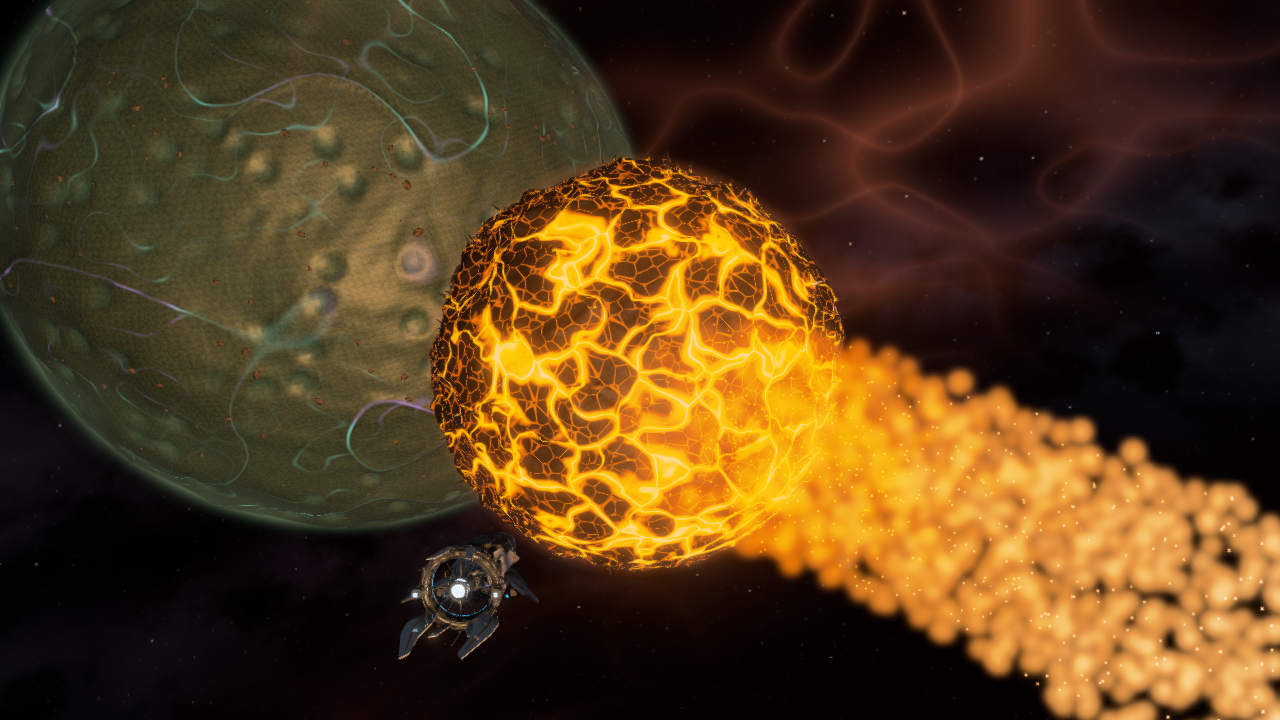
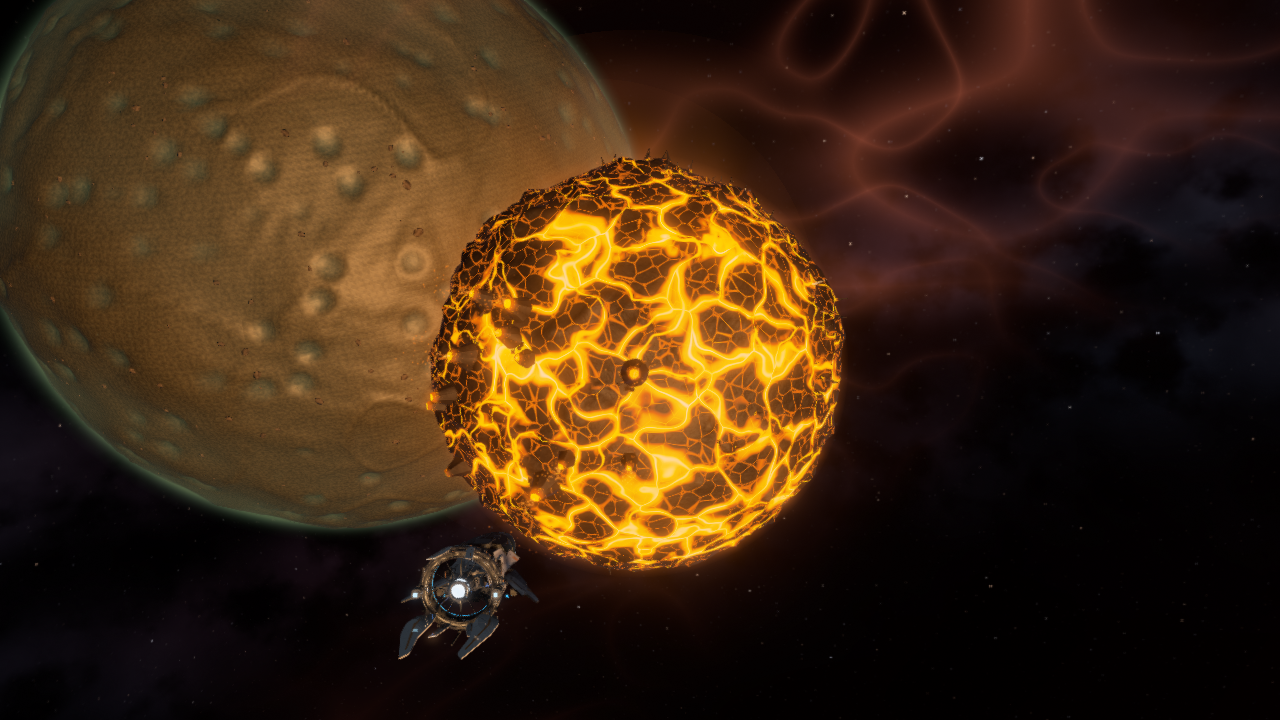
Documentar los lugares de cada planeta y la cola de Pira, y regenerar las capturas

diff --git a/README.md b/README.md
@@ -17,7 +17,21 @@ todo el cielo. Otra J la hace renacer.
 | ![Agonía: la estrella late y Pira se le deshace encima](media/22_agonia.png) | ![Estertor: la estrella suelta su capa de gas](media/25_estertor.png) |
 | ![Vigía y su ojo-tormenta](media/06_vigia.png) | ![Pira: corteza en placas y lava](media/02_pira.png) |
 | ![Agujas góticas de Réquiem](media/10_agujas.png) | ![Cementerio: naves en los anillos y la baliza](media/08_cementerio.png) |
-| ![Superficie de Jardín](media/23_jardin_biopunk.png) | ![Silencio: solo queda la bioluminiscencia](media/17_colapso.png) |
+| ![Superficie de Jardín](media/23_jardin_biopunk.png) | ![Pira y su cola de polvo](media/14_cola.png) |
+
+## Lugares para visitar
+
+Cada planeta tiene un lugar en su superficie que **reacciona a la nave**,
+con luces que alumbran lo de alrededor y algo que flota a su lado. La tecla
+**N** viaja al siguiente; cerca de cada planeta, el HUD marca su lugar.
+
+| | |
+| --- | --- |
+| ![Los géiseres de Pira](media/27_geiseres.png) | **Los géiseres** (Pira): bocas de lava que hacen erupción de vez en cuando y despiertan al pasar la nave; alumbran el suelo y suben brasas a su alrededor. |
+| ![La catedral de Réquiem](media/28_catedral.png) | **La catedral** (Réquiem): un círculo de agujas alrededor de una aguja mayor. Se encienden empezando por lo que la nave tiene más cerca y alumbran el hielo de azul. Cae nieve. |
+| ![La baliza de Cementerio](media/26_baliza.png) | **La baliza** (Cementerio): naves caídas alrededor de la torre. A su paso les vuelven las luces y echan chispas; la baliza titila más rápido y su onda sube. |
+| ![El ojo de Vigía de cerca](media/29_ojo_cerca.png) | **El ojo** (Vigía): sigue a la nave y, cuando se acerca, cierra la pupila, enciende el iris y los relámpagos se juntan debajo de ella. Jirones de nube pasan rozando. |
+| ![El claro de Jardín](media/11_hongos.png) | **El claro** (Jardín): colonias de hongos y corales que alumbran el suelo, con esporas flotando. |
 
 ## Video
 
@@ -29,8 +43,8 @@ simulación acelerada x3, así que no es una medición de FPS en tiempo real.
 
 Recorrido sugerido para grabarlo (F9 oculta el HUD):
 
-1. Desde el inicio, junto a Pira, alejarse con Shift para ver el chorro de
-   brasas cayendo a la estrella.
+1. Desde el inicio, junto a Pira, alejarse con Shift para ver la cola de
+   polvo que la estrella le arranca.
 2. Volar a Jardín y bajar hasta la superficie: el modo local se activa solo.
 3. Con O (crucero), dar la vuelta al planeta sobre el bosque de hongos.
 4. Subir y alejarse con Shift.
@@ -49,7 +63,7 @@ Opciones:
 
 ```sh
 cargo run --release -- --res 1920x1080        # resolución del render (por defecto 1280x720)
-cargo run --release -- --captura capturas     # las 27 vistas fijas como PNG, sin abrir ventana
+cargo run --release -- --captura capturas     # las 30 vistas fijas como PNG, sin abrir ventana
 cargo run --release -- --bench 30             # mide cada vista fija y da medianas por etapa
 cargo run --release -- --wire --lod           # empieza con wireframe y colores de LOD
 cargo test --release                          # pruebas de vuelo, raster, sombras y gas volumétrico
@@ -67,6 +81,7 @@ cargo test --release                          # pruebas de vuelo, raster, sombra
 | Turbo | Shift |
 | **Freno de emergencia** (prioridad sobre turbo y crucero) | **X sostenida** |
 | **Recuperar posicion** junto a Pira, conservando el ciclo | **Inicio / Home** |
+| **Viajar al siguiente lugar** (géiseres, catedral, baliza, claro) | **N** |
 | Acercar / alejar la cámara | Rueda |
 | Cámara de persecución / cabina | C |
 | Asistente de vuelo / gravedad | Z / G |
@@ -130,12 +145,12 @@ Las vistas fijas se generan con `--captura` (nombres entre paréntesis).
 
 | Característica del menú | Cómo está hecho | Dónde verlo |
 | --- | --- | --- |
-| **5 planetas** que orbitan, rotan y se ven de cerca (50) | Pira (corteza negra en placas con lava que late, acoplada por marea; la estrella se la come y le arranca un penacho de roca vaporizada), Jardín (mundo vivo que respira, con arterias y capilares que laten), Vigía (gigante gaseoso morado con un ojo-tormenta que gira, sigue a la nave y dilata la pupila con el latido), Réquiem (mundo helado con agujas góticas y grietas de luz fría) y Cementerio (anillos llenos de naves del éxodo y una baliza que sigue transmitiendo). Órbitas y giros son funciones del tiempo. | (02) a (08); volar a cualquiera |
-| **8 tipos de modelos** propios en la superficie (20) | Aguja gótica y aguja en ruinas (Réquiem), hongo y coral (Jardín), espinas de obsidiana (Pira), nave náufraga y baliza de celosía (Cementerio) y rocas, armados con código en `scene/props.rs`, cada uno en tres niveles de detalle. | (10) a (13), (26) |
+| **5 planetas** que orbitan, rotan y se ven de cerca (50) | Pira (corteza negra en placas con lava que late, acoplada por marea; la estrella la está desintegrando y le arranca una cola de polvo, como a K2-22b), Jardín (mundo vivo que respira, con una red de luz bajo la piel), Vigía (gigante gaseoso morado con un ojo-tormenta que gira, sigue a la nave y dilata la pupila con el latido), Réquiem (mundo helado con agujas góticas y grietas de luz fría) y Cementerio (anillos llenos de naves del éxodo y una baliza que sigue transmitiendo). Órbitas y giros son funciones del tiempo. | (02) a (08); volar a cualquiera |
+| **9 tipos de modelos** propios en la superficie (20) | Aguja gótica y aguja en ruinas (Réquiem), hongo y coral (Jardín), espinas de obsidiana y géiser (Pira), nave náufraga y baliza de celosía (Cementerio) y rocas, armados con código en `scene/props.rs`, cada uno en tres niveles de detalle. | (10) a (13), (26) |
 | **Distribución procedural** reproducible con ruido (10) | Una grilla por cara del cubo-esfera; cada celda propone un punto y lo acepta con una probabilidad de ruido fBm (grupos y claros) por las reglas del terreno (pendiente, hielo, lava, valles). Misma semilla, mismas ubicaciones. | F6 o T → semilla |
 | **Posición y orientación** sobre la superficie curva que gira (5) | Cada objeto vive en el espacio de su planeta, parado sobre la normal radial y hundido en el suelo; gira con el planeta y sube y baja con la respiración de Jardín. | Cualquier superficie |
-| **Shaders propios** distintos (24) | Estrella (granulación de plasma, onda del latido, llamaradas), Pira (placas de Voronoi y lava de cuerpo negro), Jardín (arterias y capilares con antialiasing), Vigía (paleta propia, vórtice de Rodrigues, iris y relámpagos; del mapa del Hubble solo se toma el detalle de las nubes), Réquiem (hielo con grietas de luz fría), Cementerio, anillos de naves, agujas, baliza, nebulosa del estertor y Gargantúa. | Todas las vistas |
-| **Shader animado** (8) | La estrella late y cada latido cruza su superficie; la lava y las arterias laten con retraso; Jardín respira; el vórtice de Vigía gira y su pupila se dilata; la luz sube por las agujas; los anillos orbitan con luces que parpadean; la nebulosa se expande; el gas del disco fluye. | (02), (04), (06), (10), (18), (25) |
+| **Shaders propios** distintos (24) | Estrella (granulación de plasma, onda del latido, llamaradas), Pira (placas de Voronoi y lava de cuerpo negro), Jardín (tejido con luz interna y poros), Vigía (paleta propia, vórtice de Rodrigues, iris y relámpagos; del mapa del Hubble solo se toma el detalle de las nubes), Réquiem (hielo con grietas de luz fría), Cementerio, anillos de naves, agujas, baliza, nebulosa del estertor y Gargantúa. | Todas las vistas |
+| **Shader animado** (8) | La estrella late y cada latido cruza su superficie; la lava y la luz de Jardín laten con retraso; Jardín respira; los géiseres hacen erupción; el vórtice de Vigía gira y su pupila se dilata; la luz sube por las agujas; los anillos orbitan con luces que parpadean; la nebulosa se expande; el gas del disco fluye. | (02), (04), (06), (10), (18), (25) |
 | **Mapeo de normales** (8) | Las placas del casco de los naufragios (generadas al arrancar), la roca y el tejido orgánico en triplanar, con mipmaps; tangentes por vértice y base TBN por pixel. | (13), (05) |
 | **Deformación de la geometría** con ruido (10) | Las funciones de altura de cada planeta desplazan los vértices del cubo-esfera (cráteres, crestas, mares de lava, zanjas); Jardín además respira en el vertex shader. | Todas; `--wire` |
 | **Generación de geometría** propia antes de rasterizar (10) | Quadtree de chunks del cubo-esfera generados en paralelo con faldones, icosfera por subdivisión, modelos con `MeshBuilder`, cintas para líneas, recorte de Sutherland-Hodgman. | F3, F4 |
@@ -153,7 +168,8 @@ Además, fuera del menú:
 - **El ciclo** ([src/scene/cycle.rs](src/scene/cycle.rs)): una función pura del tiempo y del instante en que se presionó J, por eso se puede rebobinar.
 - **Nebulosa del estertor** ([src/shaders/nebula.rs](src/shaders/nebula.rs)): una cáscara que se expande; cada rayo la corta en a lo más dos puntos, ahí se evalúan filamentos de ruido, y el borde brilla más porque se ve de canto.
 - **Atmósferas** con dispersión de Rayleigh y Mie, perspectiva aérea por vértice y una tabla del cielo cuando la cámara está adentro.
-- **Partículas** aditivas con profundidad: el penacho de roca que Pira pierde, los arcos de plasma de la estrella, las ondas de la baliza, esporas que brillan de noche y el fuego de los motores.
+- **Partículas** aditivas con profundidad: los arcos de plasma de la estrella, las fuentes de lava de los géiseres, brasas, nieve, polvo y bruma alrededor de la nave según el planeta, chispas de los naufragios, las ondas de la baliza, esporas que brillan de noche y el fuego de los motores.
+- **Cola de Pira** ([src/shaders/tail.rs](src/shaders/tail.rs)): un volumen marchado a lo largo de una parábola que sale del lado de noche, lejos de la estrella; el polvo brilla más a contraluz (Henyey-Greenstein).
 - **Sonido sintetizado**: el latido sincronizado con el que se ve, motor, viento y un tono por planeta.
 - **Bloom** y tonemap HDR que conserva el tono.
 

diff --git a/EXPLICACION.md b/EXPLICACION.md
@@ -1,3 +1,26 @@
+# Cambios de la tercera revisión
+
+- **Jardín** volvió a como estaba en la primera revisión.
+- **La cola de Pira** ([shaders/tail.rs](src/shaders/tail.rs)): ya no hay
+  un chorro que cae a la estrella. Un planeta que se desintegra deja una cola
+  de polvo del lado contrario: la radiación lo empuja hacia afuera y el
+  planeta, que sigue en su órbita, lo deja atrás. En el marco de la cola su
+  eje es la parábola `y = c x²`; se marcha el rayo con 6 muestras, solo en
+  el tramo entre el planeta y la punta y solo si pasa cerca del eje. El
+  polvo dispersa la luz de la estrella hacia adelante (Henyey-Greenstein) y
+  junto al planeta el vapor brilla con su color de cuerpo negro.
+- **Lugares que reaccionan a la nave** (`System::sites`, `scene/props.rs`):
+  cada planeta tiene un lugar fijo en su espacio, como el claro de Jardín.
+  Los shaders reciben la posición de la nave (`Uniforms::ship`) y cada objeto
+  despierta según su distancia: los géiseres hacen erupción (fuentes de
+  partículas con gravedad), las agujas encienden sus ventanas desde lo más
+  cercano, los naufragios recuperan algunas luces y echan chispas, la baliza
+  titila más rápido y el ojo de Vigía cierra la pupila
+  (`Uniforms::eye_near`). Cerca del suelo de cada planeta flotan brasas,
+  nieve, polvo o bruma en un cubo que acompaña a la cámara. Las luces de los
+  géiseres, las agujas y la baliza se suman a las de los hongos (las 12 más
+  cercanas). N viaja de un lugar al siguiente.
+
 # Cambios de la segunda revisión
 
 - **El final a pedido** (`scene/cycle.rs`): ya no hay un ciclo fijo de 15
@@ -17,8 +40,7 @@
 - **Nebulosa** (`shaders/nebula.rs`): la capa de gas del estertor. Ver la
   sección 10.
 - **Pira**: corteza en placas de Voronoi con lava entre ellas, más del lado
-  que mira a la estrella; las grietas laten con retraso. El chorro es un
-  penacho continuo (manchas grandes y tenues) con brasas.
+  que mira a la estrella; las grietas laten con retraso.
 - **Vigía**: paleta morada propia sobre el detalle del Hubble, vórtice que
   gira, iris con fibras, pupila que se dilata con el latido y relámpagos.
 - **Réquiem**: agujas góticas en vez de monolitos (pisos octogonales,
@@ -27,7 +49,6 @@
 - **Cementerio**: los anillos están llenos de naves (siluetas por distancia
   con signo en celdas de Voronoi polares, con luces de navegación que
   parpadean) y una baliza de celosía emite una onda con cada destello.
-- **Jardín**: vuelven las arterias y capilares con antialiasing que laten.
 - **Rendimiento**: mapa de sombras en paralelo por franjas sin caras de
   espaldas a la luz, mapas de roca empaquetados en un texel de 8 bytes, gas
   de Gargantúa cada dos pixeles con tabla radial, y FTZ/DAZ en todos los
@@ -179,7 +200,7 @@ cara a la estrella.
 ### Las identidades
 | Planeta | Rasgo central |
 | --- | --- |
-| Pira | Corteza negra en placas con lava de cuerpo negro entre ellas, grietas que laten, acoplamiento de marea, y un penacho de roca vaporizada que cae a la estrella. |
+| Pira | Corteza negra en placas con lava de cuerpo negro entre ellas, grietas que laten, acoplamiento de marea, una cola de polvo que la estrella le arranca y un campo de géiseres. |
 | Jardín | Arterias que laten con la estrella, poros, capilares; la superficie respira (desplazamiento en el vertex shader). |
 | Vigía | Gigante gaseoso morado con un vórtice que gira y una tormenta en forma de ojo que sigue a la nave; la pupila late. |
 | Réquiem | Hielo y escarcha bajo una luz fría, grietas que respiran luz y agujas góticas cuya luz sube con cada latido. |
